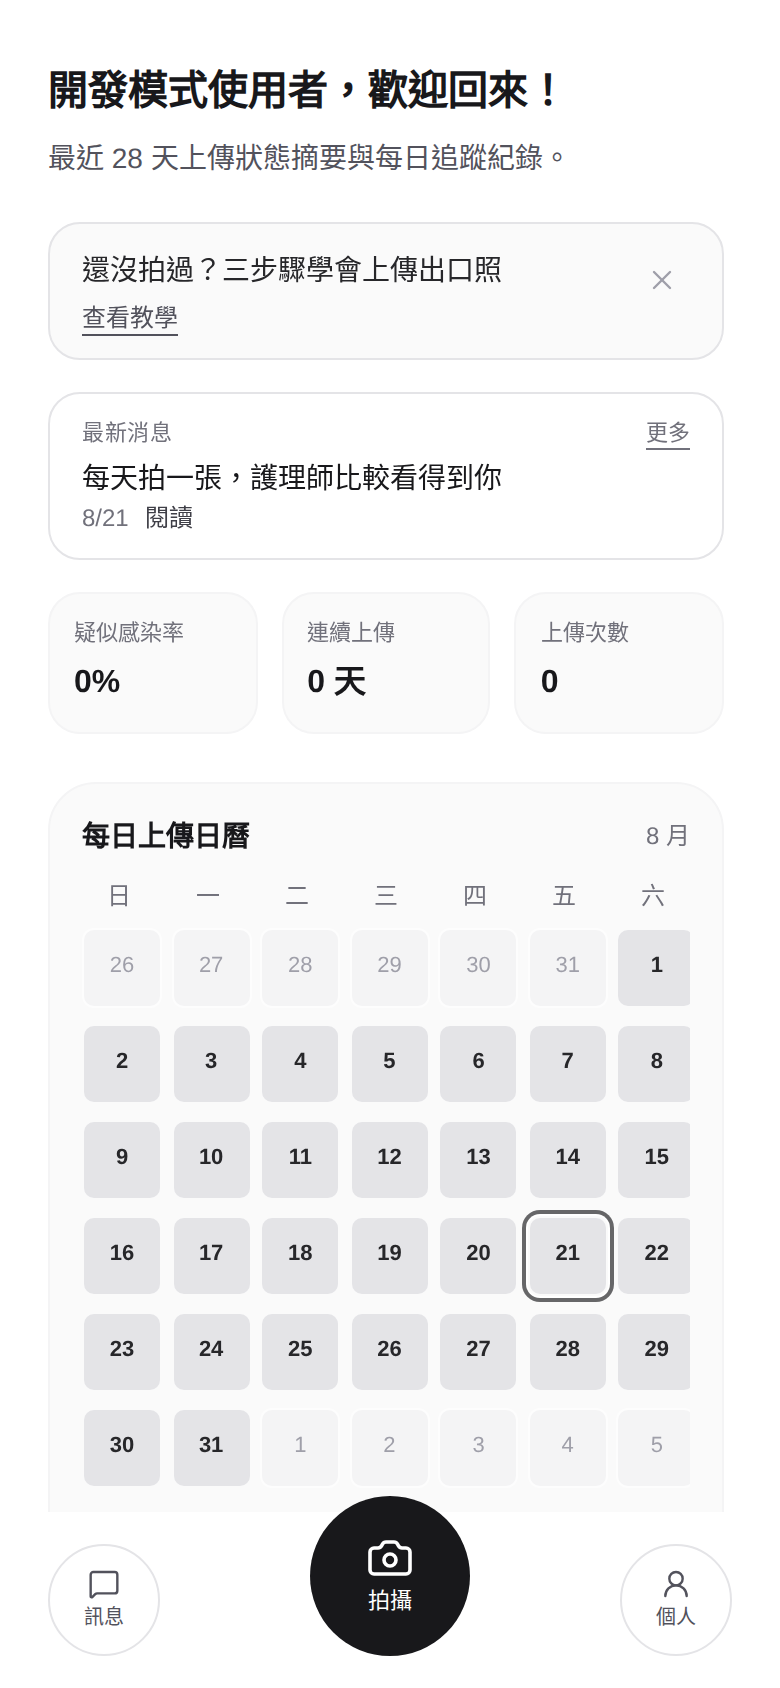
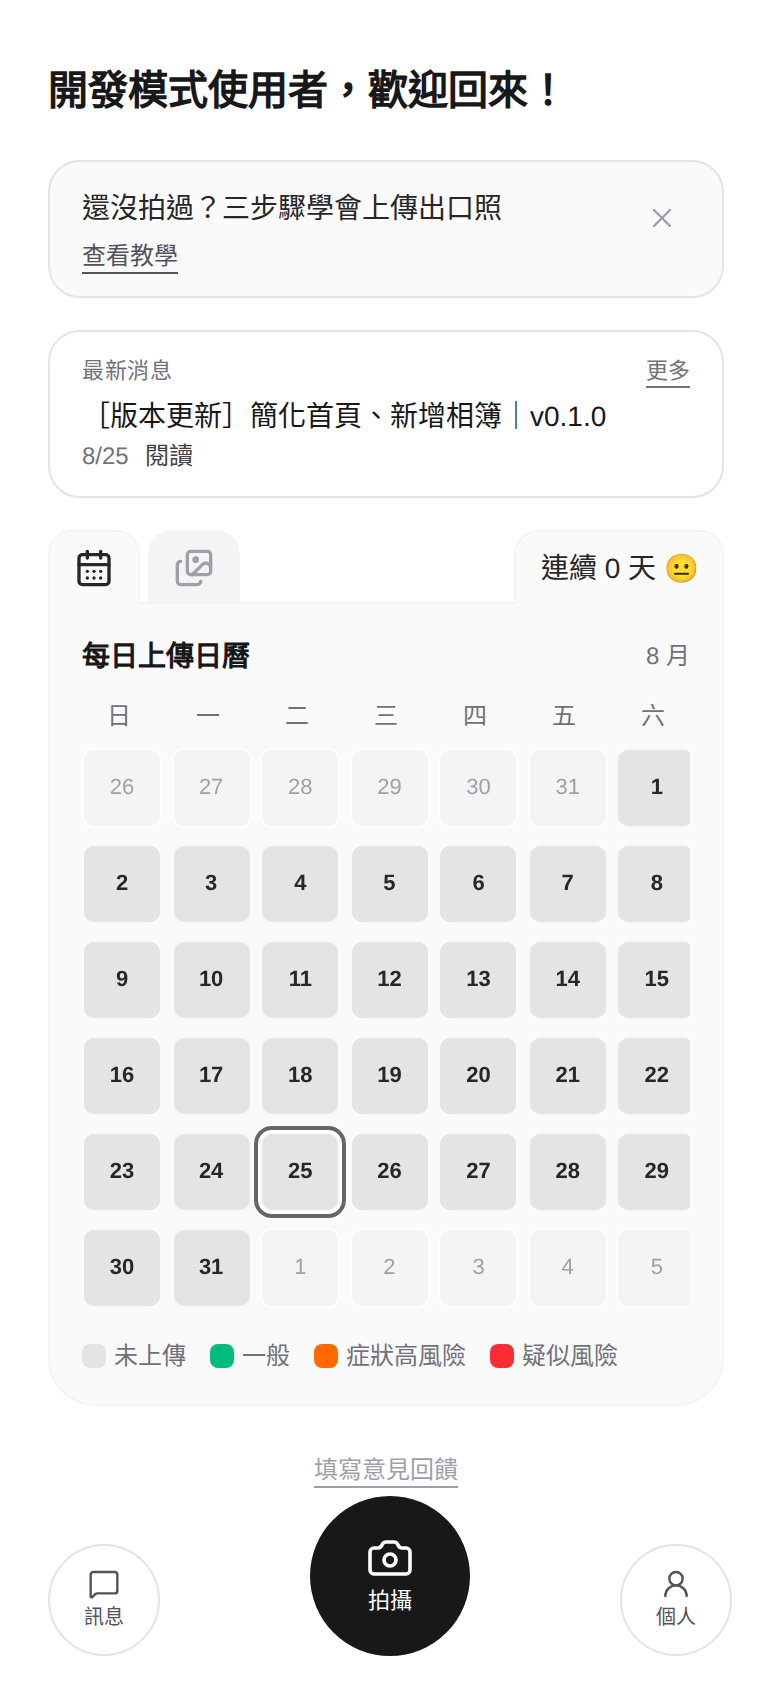
docs(blog): publish the v0.1.0 patient changelog
Name this home and gallery release so patients can tell what changed,
and capture gallery shots with the licensed dummy exit-site photo.

diff --git a/apps/frontend/scripts/blog-screenshots/shots.ts b/apps/frontend/scripts/blog-screenshots/shots.ts
@@ -1,7 +1,7 @@
 import { expect } from "@playwright/test";
 
 import { BINDABLE_PATIENT, type BlogShotId } from "./catalog";
-import type { ShotRuntime } from "./runtime";
+import { stubRemoteImagesWithStockPhoto, type ShotRuntime } from "./runtime";
 
 async function waitForLiveCamera(runtime: ShotRuntime): Promise<boolean> {
   try {
@@ -113,6 +113,69 @@ export async function captureHome(runtime: ShotRuntime): Promise<void> {
   await runtime.screenshot("shot-home.png");
 }
 
+export async function captureHomePhotos(runtime: ShotRuntime): Promise<void> {
+  await runtime.loginAs("U_DEV_PAT_MATCH", /^\/patient$/, "/patient");
+  const photosTab = runtime.page.getByRole("tab", { name: "相片" });
+  await expect(photosTab).toBeVisible({ timeout: 30_000 });
+  await photosTab.click();
+  await expect(photosTab).toHaveAttribute("aria-selected", "true");
+  await expect(runtime.page.getByRole("link", { name: "查看相簿" })).toBeVisible({ timeout: 15_000 });
+  await runtime.screenshot("shot-home-photos.png");
+}
+
+async function waitForLoadedImages(runtime: ShotRuntime, selector: string): Promise<void> {
+  await runtime.page.waitForFunction(
+    (target) => {
+      const images = Array.from(document.querySelectorAll(target));
+      return (
+        images.length > 0 &&
+        images.every((node) => node instanceof HTMLImageElement && node.complete && node.naturalWidth > 20)
+      );
+    },
+    selector,
+    { timeout: 20_000 }
+  );
+}
+
+async function openGallery(runtime: ShotRuntime): Promise<void> {
+  await runtime.page.goto(`${runtime.baseURL}/patient/gallery`, { waitUntil: "networkidle" });
+  await expect(runtime.page.getByRole("heading", { name: "相簿" })).toBeVisible({ timeout: 30_000 });
+}
+
+export async function capturePatientGalleryFlow(
+  runtime: ShotRuntime,
+  selected: ReadonlySet<BlogShotId>
+): Promise<void> {
+  await runtime.loginAs("U_DEV_PAT_MATCH", /^\/patient$/, "/patient");
+  await stubRemoteImagesWithStockPhoto(runtime.page, runtime.stockExitPhoto);
+  await openGallery(runtime);
+  await expect(runtime.page.getByTestId("gallery-grid-skeleton")).toHaveCount(0, { timeout: 30_000 });
+
+  if (await runtime.page.getByText("尚無相片").isVisible()) {
+    await openCapturePreview(runtime, false);
+    await submitCaptureAndWaitForResult(runtime);
+    await openGallery(runtime);
+    await expect(runtime.page.getByTestId("gallery-grid-skeleton")).toHaveCount(0, { timeout: 30_000 });
+  }
+
+  if (selected.has("gallery")) {
+    await expect(runtime.page.getByRole("tab", { name: "九宮格" })).toHaveAttribute("aria-selected", "true");
+    await expect(runtime.page.getByTestId("gallery-grid-cell").first()).toBeVisible({ timeout: 20_000 });
+    await waitForLoadedImages(runtime, '[data-testid="gallery-grid-cell"] img');
+    await runtime.screenshot("shot-gallery.png");
+  }
+
+  if (selected.has("gallery-calendar")) {
+    const calendarTab = runtime.page.getByRole("tab", { name: "日曆" });
+    await calendarTab.click();
+    await expect(calendarTab).toHaveAttribute("aria-selected", "true");
+    await expect(runtime.page.getByTestId("gallery-calendar-skeleton")).toHaveCount(0, { timeout: 20_000 });
+    await expect(runtime.page.getByTestId("gallery-calendar-day").first()).toBeVisible({ timeout: 20_000 });
+    await waitForLoadedImages(runtime, '[data-testid="gallery-calendar-day"] img');
+    await runtime.screenshot("shot-gallery-calendar.png");
+  }
+}
+
 export async function capturePatientCaptureFlow(
   runtime: ShotRuntime,
   selected: ReadonlySet<BlogShotId>
@@ -128,11 +191,12 @@ export async function capturePatientCaptureFlow(
 }
 
 export const INDEPENDENT_SHOT_RUNNERS: Record<
-  Exclude<BlogShotId, "capture" | "result">,
+  Exclude<BlogShotId, "capture" | "result" | "gallery" | "gallery-calendar">,
   (runtime: ShotRuntime) => Promise<void>
 > = {
   "role-select": captureRoleSelect,
   bind: captureBind,
   pending: capturePending,
   home: captureHome,
+  "home-photos": captureHomePhotos,
 };

diff --git a/apps/frontend/scripts/blog-screenshots/catalog.ts b/apps/frontend/scripts/blog-screenshots/catalog.ts
@@ -17,7 +17,16 @@ export const BINDABLE_PATIENT = {
   birthDate: "1990-01-01",
 } as const;
 
-export type BlogShotId = "role-select" | "bind" | "pending" | "home" | "capture" | "result";
+export type BlogShotId =
+  | "role-select"
+  | "bind"
+  | "pending"
+  | "home"
+  | "home-photos"
+  | "gallery"
+  | "gallery-calendar"
+  | "capture"
+  | "result";
 
 export type BlogShot = {
   id: BlogShotId;
@@ -26,7 +35,7 @@ export type BlogShot = {
   /**
    * Shots that share a flow run in one login/session. Independent shots omit this.
    */
-  flow?: "patient-capture";
+  flow?: "patient-capture" | "patient-gallery";
 };
 
 export const BLOG_SHOT_CATALOG: readonly BlogShot[] = [
@@ -48,7 +57,24 @@ export const BLOG_SHOT_CATALOG: readonly BlogShot[] = [
   {
     id: "home",
     file: "shot-home.png",
-    description: "已綁定病患首頁（日曆與拍攝）",
+    description: "已綁定病患首頁（顏色日曆與拍攝）",
+  },
+  {
+    id: "home-photos",
+    file: "shot-home-photos.png",
+    description: "首頁相片模式與查看相簿",
+  },
+  {
+    id: "gallery",
+    file: "shot-gallery.png",
+    description: "相簿九宮格（示範出口照）",
+    flow: "patient-gallery",
+  },
+  {
+    id: "gallery-calendar",
+    file: "shot-gallery-calendar.png",
+    description: "相簿日曆模式（示範出口照）",
+    flow: "patient-gallery",
   },
   {
     id: "capture",

diff --git a/apps/frontend/scripts/blog-screenshots/runtime.ts b/apps/frontend/scripts/blog-screenshots/runtime.ts
@@ -1,5 +1,5 @@
 import { execFileSync } from "node:child_process";
-import { mkdtempSync } from "node:fs";
+import { mkdtempSync, readFileSync } from "node:fs";
 import { tmpdir } from "node:os";
 import { join } from "node:path";
 
@@ -101,6 +101,27 @@ export function createRuntime(page: Page, baseURL: string, outDir: string, stock
       await expect(page).toHaveURL((url) => waitForPath.test(url.pathname));
     },
   };
+}
+
+/** Replace remote clinical images with the licensed stock exit-site JPEG. */
+export async function stubRemoteImagesWithStockPhoto(page: Page, stockExitPhoto: string): Promise<void> {
+  const body = readFileSync(stockExitPhoto);
+  await page.route("**/*", async (route) => {
+    if (route.request().resourceType() !== "image") {
+      await route.continue();
+      return;
+    }
+    const url = route.request().url();
+    if (url.includes("/_next/") || url.includes("/blog/")) {
+      await route.continue();
+      return;
+    }
+    await route.fulfill({
+      status: 200,
+      contentType: "image/jpeg",
+      body,
+    });
+  });
 }
 
 export async function assertPersonasAvailable(page: Page, baseURL: string): Promise<void> {

diff --git a/apps/frontend/scripts/blog-screenshots/index.ts b/apps/frontend/scripts/blog-screenshots/index.ts
@@ -14,7 +14,7 @@ import { fileURLToPath } from "node:url";
 import { BLOG_SHOT_CATALOG, formatCatalog, type BlogShot } from "./catalog";
 import { parseArgs, USAGE } from "./cli";
 import { assertPersonasAvailable, createRuntime, launchBlogBrowser, makeFakeCameraVideo } from "./runtime";
-import { capturePatientCaptureFlow, INDEPENDENT_SHOT_RUNNERS } from "./shots";
+import { capturePatientCaptureFlow, capturePatientGalleryFlow, INDEPENDENT_SHOT_RUNNERS } from "./shots";
 
 const root = dirname(fileURLToPath(import.meta.url));
 const frontendRoot = resolve(root, "../..");
@@ -41,6 +41,10 @@ async function runShots(shots: readonly BlogShot[], outDir: string): Promise<voi
         throw new Error(`No independent runner registered for shot "${shot.id}". Add it in shots.ts.`);
       }
       await runner(runtime);
+    }
+
+    if (selectedIds.has("gallery") || selectedIds.has("gallery-calendar")) {
+      await capturePatientGalleryFlow(runtime, selectedIds);
     }
 
     if (selectedIds.has("capture") || selectedIds.has("result")) {

diff --git a/apps/frontend/scripts/blog-screenshots/cli.test.ts b/apps/frontend/scripts/blog-screenshots/cli.test.ts
@@ -18,9 +18,9 @@ describe("parseArgs", () => {
     expect(parseArgs(["-h"]).help).toBe(true);
   });
 
-  it("keeps catalog order for --only", () => {
-    const parsed = parseArgs(["--only", "result,home,capture"]);
-    expect(parsed.only?.map((shot) => shot.id)).toEqual(["home", "capture", "result"]);
+  it("keeps catalog order for gallery flow ids", () => {
+    const parsed = parseArgs(["--only", "gallery-calendar,gallery"]);
+    expect(parsed.only?.map((shot) => shot.id)).toEqual(["gallery", "gallery-calendar"]);
   });
 
   it("rejects unknown shot ids", () => {

diff --git a/apps/frontend/scripts/blog-screenshots/README.md b/apps/frontend/scripts/blog-screenshots/README.md
@@ -26,7 +26,7 @@ npm run blog:screenshots -- --only home,result
 npm run blog:screenshots -- --only capture --out /tmp/blog-shots
 ```
 
-`--only` ids run in **catalog order**, not argument order. `capture` and `result` share one login/upload session.
+`--only` ids run in **catalog order**, not argument order. `capture` and `result` share one login/upload session. `gallery` and `gallery-calendar` share one login; remote photos are replaced with `stock-exit-site.jpg` so public articles never show NTUH / training-set patients.
 
 ## Use in a new article
 
@@ -41,7 +41,10 @@ In `apps/frontend/content/blog/<slug>.mdx`:
 | `role-select` | `shot-role-select.png` | 選身份 |
 | `bind` | `shot-bind.png` | 填病歷號 |
 | `pending` | `shot-pending.png` | 等待審核 |
-| `home` | `shot-home.png` | 已綁定首頁 / 日曆 |
+| `home` | `shot-home.png` | 已綁定首頁 / 顏色日曆 |
+| `home-photos` | `shot-home-photos.png` | 首頁相片模式與「查看相簿」 |
+| `gallery` | `shot-gallery.png` | 相簿九宮格 |
+| `gallery-calendar` | `shot-gallery-calendar.png` | 相簿日曆模式 |
 | `capture` | `shot-capture.png` | 拍攝觀景窗 |
 | `result` | `shot-result.png` | 輔助判讀結果 |
 

diff --git a/apps/frontend/public/blog/LICENSES.md b/apps/frontend/public/blog/LICENSES.md
@@ -7,4 +7,4 @@ Real peritoneal dialysis catheter exit-site photograph on the abdomen (not an NT
 - Figure: Fig. 1 (signs of exit-site infection)
 - Article: Gołembiewska E, Ciechanowski K. Repeat exit site infection in peritoneal dialysis patient with polycythemia vera – a case report. *BMC Infectious Diseases* 21, 692 (2021). [https://doi.org/10.1186/s12879-021-06342-x](https://doi.org/10.1186/s12879-021-06342-x)
 - License: [CC BY 4.0](https://creativecommons.org/licenses/by/4.0/)
-- Changes: converted the original PNG to JPEG; used as the capture/result demo image inside Playwright screenshots of the real app.
+- Changes: converted the original PNG to JPEG; used as the capture/result demo image, and substituted for remote gallery thumbnails when capturing `shot-gallery.png` / `shot-gallery-calendar.png`.
